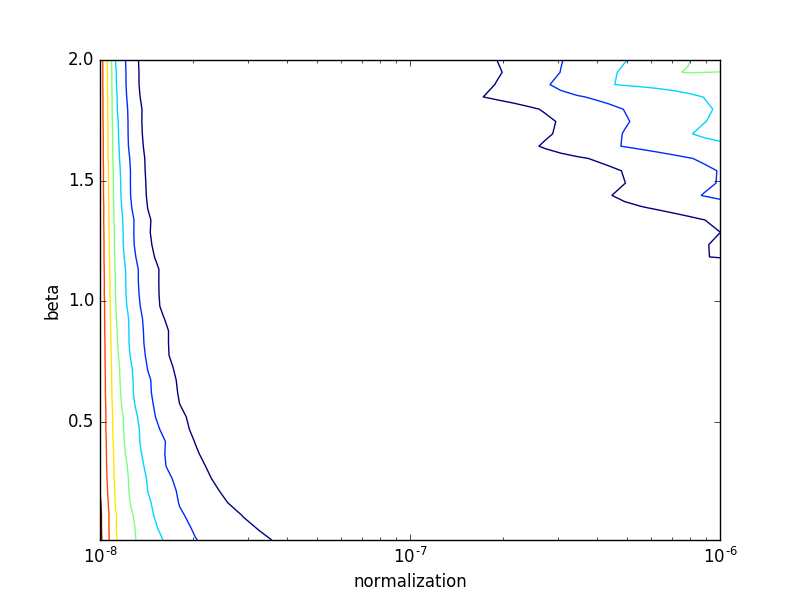
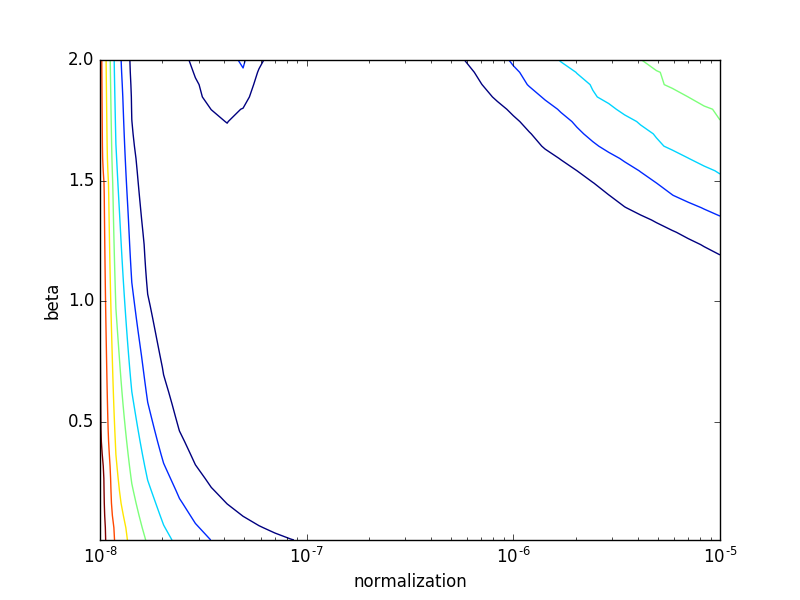
made a bunch of plots

diff --git a/GCE_jla_log_parab.py b/GCE_jla_log_parab.py
@@ -35,16 +35,18 @@ k = raw[trunc:dataset,5]
 background = raw[trunc:dataset,7]
 exposure = raw[trunc:dataset,6]
 
-Eb = np.logspace(-2,2,40)
-alpha = np.linspace(-2,2,40)
+Eb = np.logspace(-1,0.5,40)
+alpha = np.linspace(-3,1.5,40)
 beta = np.linspace(0.01,2,40)
-N0_GCE = np.logspace(-8,-6,40)
+N0_GCE = np.logspace(-8,-5,40)
 
 binned_spectra = GCE_calcs.calculations.get_spec_log_parab(N0_GCE,alpha,beta,Eb,emax_GCE,emin_GCE)
 
 unbinned_spectra = GCE_calcs.calculations.get_dn_de_log_parab(N0_GCE,alpha,beta,Eb,10**bin_center)
 
+test_spec_type = GCE_calcs.calculations.get_spec_log_parab_for_minimizing(3.e-6,-1.8,.775,0.1859,emax_GCE,emin_GCE)
 
+print test_spec_type
 
 #print binned_spectra[0,0,0,0,:]
 #print binned_spectra[0,0,0,:,0]
@@ -84,7 +86,7 @@ log_like_GCE_4d = np.sum(log_like_GCE_5d,axis=4)
 
 max_index = np.unravel_index(log_like_GCE_4d.argmax(),log_like_GCE_4d.shape)
 
-print 'the index of the max prob is ' + str(max_index)
+#print 'the index of the max prob is ' + str(max_index)
 
 print 'the max alpha is ' + str(alpha[max_index[1]])
 print 'the max beta is ' + str(beta[max_index[2]])
@@ -104,22 +106,120 @@ plt.savefig('log_parab_test.png')
 plt.clf()
 
 
-plt.plot(10**bin_center,binned_spectra[max_index[0],max_index[1],max_index[2],max_index[3],:])
-plt.plot(10**bin_center,binned_spectra[max_index[0],max_index[1],max_index[2]+2,max_index[3],:])
-plt.plot(10**bin_center,binned_spectra[max_index[0],max_index[1],max_index[2]-2,max_index[3],:])
+plt.plot(10**bin_center,binned_spectra[max_index[0],max_index[1],max_index[2],max_index[3],:],label = 'maximum')
+plt.plot(10**bin_center,binned_spectra[max_index[0],max_index[1],max_index[2]+2,max_index[3],:],label = 'beta = ' + str(beta[max_index[2]+2]))
+plt.plot(10**bin_center,binned_spectra[max_index[0],max_index[1],max_index[2]-2,max_index[3],:],label = 'beta = ' + str(beta[max_index[2]-2]))
+plt.plot(10**bin_center,binned_spectra[max_index[0],max_index[1]+2,max_index[2],max_index[3],:],label = 'alpha =  ' + str(alpha[max_index[2]+2]))
+plt.plot(10**bin_center,binned_spectra[max_index[0],max_index[1]-2,max_index[2],max_index[3],:],label = 'alpha = ' + str(alpha[max_index[2]-2]))
+plt.legend(loc='best')
 plt.xscale('log')
 plt.yscale('log')
 plt.savefig('beta_test.png')
 plt.clf()
 
-plt.plot(10**bin_center,unbinned_spectra[max_index[0],max_index[1],max_index[2],max_index[3],:])
-plt.plot(10**bin_center,unbinned_spectra[max_index[0],max_index[1],max_index[2]+2,max_index[3],:])
-plt.plot(10**bin_center,unbinned_spectra[max_index[0],max_index[1],max_index[2]-2,max_index[3],:])
+#plt.plot(10**bin_center,background[0,0,0,0,:],label = 'background')
+plt.errorbar(10**bin_center,(k[0,0,0,0,:] - background[0,0,0,0,:])/exposure[0,0,0,0,:],yerr = np.sqrt(k[0,0,0,0,:])/exposure[0,0,0,0,:],label = 'observed residual')
+plt.plot(10**bin_center, binned_spectra[max_index[0],max_index[1],max_index[2],max_index[3],:],label = 'max binned DM number flux')
+plt.plot(10**bin_center,binned_spectra[max_index[0],max_index[1],max_index[2]+2,max_index[3],:],label = 'beta = ' +  str(beta[max_index[2]+2]))
+plt.plot(10**bin_center,binned_spectra[max_index[0],max_index[1],max_index[2]-2,max_index[3],:],label = 'beta = ' +  str(beta[max_index[2]-2]))
+plt.plot(10**bin_center,binned_spectra[max_index[0],max_index[1]+2,max_index[2],max_index[3],:],label = 'alpha = ' +  str(alpha[max_index[1]+2]))
+plt.plot(10**bin_center,binned_spectra[max_index[0],max_index[1]-2,max_index[2],max_index[3],:],label = 'alpha = ' + str(alpha[max_index[1]-2]))
+plt.xlabel('Energy [GeV]')
+plt.ylabel('Number Flux [cm^-2 sec^-1]')
+plt.legend(loc='best')
 plt.xscale('log')
-plt.yscale('log')
-plt.savefig('unbinned_spectra.png')
+#plt.yscale('log')
+plt.savefig('residual_test.png')
 plt.clf()
 
+
+#plt.plot(10**bin_center,unbinned_spectra[max_index[0],max_index[1],max_index[2],max_index[3],:])
+#plt.plot(10**bin_center,unbinned_spectra[max_index[0],max_index[1],max_index[2]+2,max_index[3],:])
+#plt.plot(10**bin_center,unbinned_spectra[max_index[0],max_index[1],max_index[2]-2,max_index[3],:])
+#plt.xscale('log')
+#plt.yscale('log')
+#plt.savefig('unbinned_spectra.png')
+#plt.clf()
+
+#########################
+### plotting slices of the 4-d log-like
+#########################
+
+
+levels = [0,1,3,6,10,15,25,36,49]
+plt.contour(alpha,beta,-log_like_GCE_4d[max_index[0],:,:,max_index[3]].T  + log_like_GCE_4d.max(),levels)
+plt.xlabel('alpha')
+plt.ylabel('beta')
+plt.savefig('alpha_beta_slice.png')
+plt.clf()
+
+max_index_alpha_beta = np.unravel_index(log_like_GCE_4d[max_index[0],:,:,max_index[3]].argmax(),log_like_GCE_4d[max_index[0],:,:,max_index[3]].shape)
+
+#print 'the index of the max prob in the alpha_beta slice is ' + str(max_index_alpha_beta)
+
+
+
+plt.contour(alpha,Eb, -log_like_GCE_4d[max_index[0],:,max_index[2],:].T + log_like_GCE_4d.max(),levels)
+plt.xlabel('alpha')
+plt.ylabel('Eb')
+plt.yscale('log')
+plt.savefig('alpha_Eb_slice.png')
+plt.clf()
+
+max_index_alpha_Eb = np.unravel_index(log_like_GCE_4d[max_index[0],:,max_index[2],:].argmax(),log_like_GCE_4d[max_index[0],:,max_index[2],:].shape)
+
+#print 'the index of the max prob in the alpha_Eb slice is ' + str(max_index_alpha_Eb)
+
+
+
+
+plt.contour(N0_GCE,alpha, -log_like_GCE_4d[:,:,max_index[2],max_index[3]].T + log_like_GCE_4d.max(),levels)
+plt.xlabel('N0')
+plt.xscale('log')
+plt.ylabel('alpha')
+plt.savefig('N0_alpha_slice.png')
+plt.clf()
+
+max_index_N0_alpha = np.unravel_index(log_like_GCE_4d[:,:,max_index[2],max_index[3]].argmax(),log_like_GCE_4d[:,:,max_index[2],max_index[3]].shape)
+
+#print 'the index of the max prob in the N0_alpha slice is ' + str(max_index_N0_alpha)
+
+
+plt.contour(N0_GCE,beta, -log_like_GCE_4d[:,max_index[1],:,max_index[3]].T + log_like_GCE_4d.max(),levels)
+plt.xlabel('N0')
+plt.xscale('log')
+plt.ylabel('beta')
+plt.savefig('N0_beta_slice.png')
+plt.clf()
+
+max_index_N0_beta = np.unravel_index(log_like_GCE_4d[:,max_index[1],:,max_index[3]].argmax(),log_like_GCE_4d[:,max_index[1],:,max_index[3]].shape)
+
+#print 'the index of the max prob in the N0_beta slice is ' + str(max_index_N0_beta)
+
+
+plt.contour(N0_GCE,Eb, -log_like_GCE_4d[:,max_index[1],max_index[2],:].T + log_like_GCE_4d.max(),levels)
+plt.xlabel('N0')
+plt.xscale('log')
+plt.ylabel('Eb')
+plt.yscale('log')
+plt.savefig('N0_Eb_slice.png')
+plt.clf()
+
+max_index_N0_Eb = np.unravel_index(log_like_GCE_4d[:,max_index[1],max_index[2],:].argmax(),log_like_GCE_4d[:,max_index[1],max_index[2],:].shape)
+
+#print 'the index of the max prob in the N0_Eb slice is ' + str(max_index_N0_Eb)
+
+
+plt.contour(beta,Eb, -log_like_GCE_4d[max_index[0],max_index[1],:,:].T + log_like_GCE_4d.max(),levels)
+plt.xlabel('beta')
+plt.ylabel('Eb')
+plt.yscale('log')
+plt.savefig('beta_Eb_slice.png')
+plt.clf()
+
+max_index_beta_Eb = np.unravel_index(log_like_GCE_4d[max_index[0],max_index[1],:,:].argmax(),log_like_GCE_4d[max_index[0],max_index[1],:,:].shape)
+
+#print 'the index of the max prob in the beta_Eb slice is ' + str(max_index_beta_Eb)
 
 
 like_GCE_4d = np.exp(log_like_GCE_4d)
@@ -164,7 +264,7 @@ print like_GCE
 
 delta_log_like_2d = -(np.log(like_GCE_2d) - np.log(like_GCE_2d.max()))
 
-print delta_log_like_2d.shape
+#print delta_log_like_2d.shape
 
 
 posterior_N0 = np.trapz(np.trapz(np.trapz(like_GCE_4d,x = Eb,axis=3),x=beta,axis=2),x=alpha,axis=1)/alpha_prior_norm/beta_prior_norm/Eb_prior_norm

diff --git a/GCE_calcs/calculations.py b/GCE_calcs/calculations.py
@@ -98,3 +98,23 @@ def get_dn_de_log_parab(N0,alpha,beta,Eb,energy):
     Eb = np.tile(Eb[np.newaxis,np.newaxis,np.newaxis,:,np.newaxis],(n_N0,n_alpha,n_beta,1,n_spec))
     energy = np.tile(energy[np.newaxis,np.newaxis,np.newaxis,np.newaxis,:],(n_N0,n_alpha,n_beta,n_eb,1))
     return N0*(energy/Eb)**(-alpha - beta*np.log(energy/Eb))
+
+
+
+def get_spec_log_parab_for_minimizing(N0,alpha,beta,Eb,emax,emin):
+    #emax is a vector of len n_spec, the maxima energy of each bin
+    #emin is a vector of len n_spec, the minima energy of each bin
+    #E_b is a vector of len n_eb, the scale energy for the log-parabola
+    #beta is a vector of len n_beta, the parameter for exponential cutoff,
+    #alpha is a vector of len n_alpha, the parameter for the power law part of the spectra
+    #N0 is a vector of len n_N0, the parameter for the normalization
+    #print N0
+    #print alpha
+    #print beta
+    #print Eb
+    #print erf( ((alpha-1) + 2*beta*np.log(emax/Eb)) / (2*beta**0.5) )
+    #return N0 * Eb*np.exp(- (alpha-1)**2 / (4*beta))*np.pi**0.5 * (erf( ((alpha-1) + 2*beta*np.log(emax/Eb)) / (2*beta**0.5) ) - erf( ((alpha-1) + 2*beta*np.log(emin/Eb)) / (2*beta**0.5))) / (2*beta**0.5)
+    #return N0 * erf( ((alpha-1) + 2*beta*np.log(emax/Eb)) / (2*beta**0.5) )
+    #return N0 *  ((alpha-1) + 2*beta*np.log(emax/Eb)) / (2*beta**0.5)
+    return N0*Eb*0.5*np.sqrt(np.pi/beta) * np.exp(-0.25*(alpha-1)**2/beta) * (erf(0.5*(alpha-1)/np.sqrt(beta) + np.sqrt(beta)*np.log(emax/Eb)) - erf(0.5*(alpha-1)/np.sqrt(beta) + np.sqrt(beta)*np.log(emin/Eb)))
+
